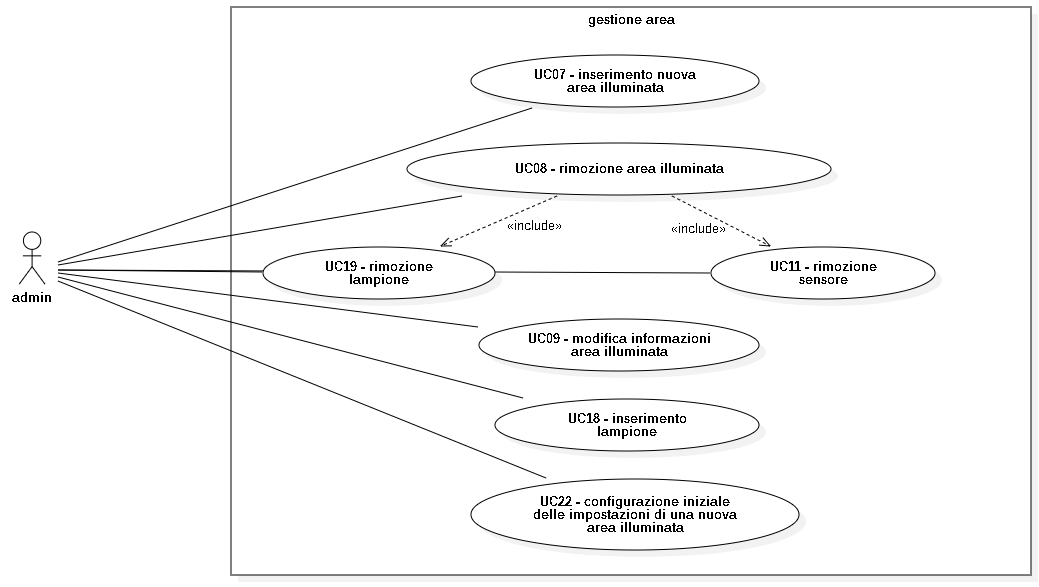
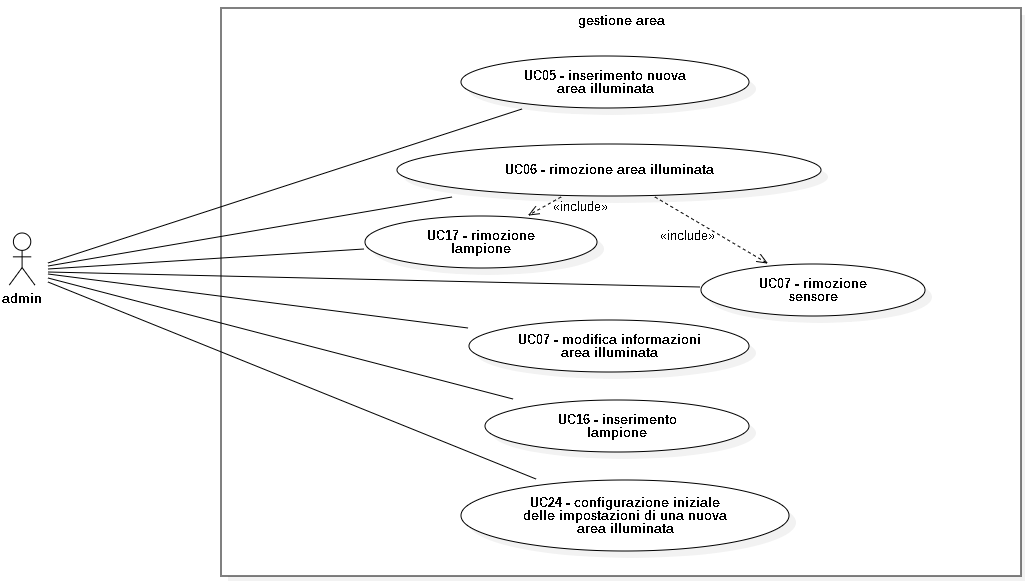
aggiornato analisi dei requisiti con relativi UML

diff --git a/analisi_requisiti/analisi_requisiti_v1.0.0.tex b/analisi_requisiti/analisi_requisiti_v1.0.0.tex
@@ -227,43 +227,7 @@ L'utente autorizzato desidera avere una panoramica sullo stato del sistema.
 
 \includegraphics[scale=0.5]{UC02.png}
 
-\subsection{Use Case 3 - Aumento luminosità automatico}
-\textbf{Tipologia: obbligatorio}\\
-Uno o più sensori rilevano la presenza di utenti della strada e comandano l'aumento della luminosità.
-\begin{itemize}
-	\item Attori primario: sensore/i
-	\item Precondizioni: uno o più sensori rilevano la presenza di pedoni o veicoli all'interno del loro raggio d'azione.
-	\item Postcondizioni: la webapp riceve la segnalazione dei sensori e comanda tutti i lampioni della zona affinchè la luminosità dell'area venga incrementata.
-\end{itemize}
-\paragraph{Scenario Principale}
-\begin{itemize}
-	\item uno o più sensori rilevano la presenza di utenti stradali
-	\item i sensori inviano un segnale alla webapp
-	\item la webapp riceve il segnale
-	\item vengono reperiti tutti gli indirizzi ip dei lampioni interessati
-	\item la webapp incrementa la luminosità di tutti i lampioni della zona
-\end{itemize}
-
-\includegraphics[scale=0.5]{UC03.png}
-
-\subsection{Use Case 4 - Diminuzione luminosità automatica}
-\textbf{Tipologia: obbligatorio}\\
-Uno o più sensori non rilevano più la presenza di utenti della strada e il sistema diminuisce automaticamente la luminosità, portandola alla soglia prefissata.
-\begin{itemize}
-	\item Attori primario: Webapp
-	\item Precondizioni: uno o più sensori non rilevano la presenza di pedoni o veicoli all'interno del loro raggio d'azione.
-	\item Postcondizioni: la webapp comanda i lampioni e la luminosità dell'area viene ripristinata al valore di default.
-\end{itemize}
-\paragraph{Scenario Principale}
-\begin{itemize}
-	\item dopo aver aumentato la luminosità a causa di un rilevamento, parte il countdown prefissato per la riduzione della luminosità
-	\item se i sensori non rilevando più presenze, non interrompono il countdown
-	\item se il countdown arriva a zero senza interruzioni, la webapp comanda la diminuzione della luminosità di tutti i lampioni della zona.
-\end{itemize}
-
-\includegraphics[scale=0.5]{UC04.png}
-
-\subsection{Use Case 5 - Aumento luminosità manuale}
+\subsection{Use Case 3 - Aumento luminosità manuale}
 \textbf{Tipologia: obbligatorio} \\
 L'amministratore vuole aumentare la luminosità indipendentemente dal fatto che ci sia un rilevamento o meno.
 \begin{itemize}
@@ -281,16 +245,16 @@ L'amministratore vuole aumentare la luminosità indipendentemente dal fatto che 
 \paragraph{Estensioni} In caso di guasto di sistema o mancanza di rete, l'amministratore comanda l'aumento della luminosità ma non vi è un incremento effettivo dopo aver fatto trascorrere il tempo tecnico prefissato.\\
 Al termine di questo lasso di tempo, se non vi è un cambiamento nella luminosità del sistema, la zona viene inserita dall'amministratore nell'elenco dei guasti. 
 
-\subsubsection{Use Case 5.1 - Visualizzazione del messaggio d'errore}
+\subsubsection{Use Case 3.1 - Visualizzazione del messaggio d'errore}
 \begin{itemize}
 	\item Attore primario: SuperAdmin, Admin
 	\item Precondizioni: L'attore primario ha tentato di aumentare la luminosità di una o più zone senza successo
 	\item Post-condizioni: L'attore primario visualizza un messaggio recante un messaggio di errore
 \end{itemize}
 
-\includegraphics[scale=0.5]{UC05.png}
+\includegraphics[scale=0.5]{UC03.png}
 
-\subsection{Use Case 6 - Diminuzione luminosità manuale}
+\subsection{Use Case 4 - Diminuzione luminosità manuale}
 \textbf{Tipologia: obbligatorio} \\
 L'amministratore vuole diminuire la luminosità indipendentemente che ci siano rilevamenti di utenti stradali o meno.
 \begin{itemize}
@@ -308,9 +272,9 @@ L'amministratore vuole diminuire la luminosità indipendentemente che ci siano r
 \paragraph{Estensioni} Nel caso in cui si comandi una dimunuzione della luminosità in modalità manuale, ma il sensore non rileva un decremento effettivo della luminosità dopo aver fatto trascorrere il "tempo tecnico", si visualizza un messaggio di errore.
 Al termine del tempo prefissato, se non ci sono stati cambiamenti di luminosità, il sistema può essere inserito nell'elenco dei guasti dall'amministratore.
 
-\includegraphics[scale=0.5]{UC06.png}
+\includegraphics[scale=0.5]{UC04.png}
 
-\subsection{Use Case 7 - Inserimento nuova area illuminata}
+\subsection{Use Case 5 - Inserimento nuova area illuminata}
 \textbf{Tipologia: obbligatorio} \\
 L'amministratore vuole inserire a sistema una nuova area da gestire che potrà essere dotata di sensori e lampioni in un secondo momento.\\
 Se sono presenti dispositivi comandabili, si vuole poter eseguire le operazioni consentite dal sistema.
@@ -327,9 +291,9 @@ Se sono presenti dispositivi comandabili, si vuole poter eseguire le operazioni 
 	\item la zona inserita viene salvata sul database per la ridondanza
 \end{itemize}
 
-\includegraphics[scale=0.5]{UC07.png}
+\includegraphics[scale=0.5]{UC05.png}
 
-\subsection{Use Case 8 - Rimozione area illuminata}
+\subsection{Use Case 6 - Rimozione area illuminata}
 \textbf{Tipologia: obbligatorio} \\
 L'amministratore vuole rimuovere una zona illuminata in quanto non viene più gestita dal sistema.
 \begin{itemize}
@@ -345,9 +309,9 @@ L'amministratore vuole rimuovere una zona illuminata in quanto non viene più ge
 	\item i lampioni e i sensori afferenti a tale area vengono eliminati a cascata dal database
 \end{itemize}
 
-\includegraphics[scale=0.5]{UC08.png}
+\includegraphics[scale=0.5]{UC06.png}
 
-\subsection{Use Case 9 - Modifica informazioni area illuminata}
+\subsection{Use Case 7 - Modifica informazioni area illuminata}
 \textbf{Tipologia: obbligatorio} \\
 L'utente vuole modificare le informazioni di una zona illuminata, come ad esempio l'indirizzo ip di un sensore che è stato sostituito.
 \begin{itemize}
@@ -371,16 +335,16 @@ L'utente vuole modificare le informazioni di una zona illuminata, come ad esempi
 \end{itemize}
 \paragraph{Estensioni} In caso di un errore nell'inserimento dei parametri nuovi, l'amministratore riceve un messaggio di errore.
 
-\subsubsection{Use Case 9.1 - Visualizzazione del messaggio d'errore in modalità di modifica}
+\subsubsection{Use Case 7.1 - Visualizzazione del messaggio d'errore in modalità di modifica}
 \begin{itemize}
 	\item Attore primario: SuperAdmin, Admin
 	\item Precondizioni: L'attore primario ha modificato uno o più dettagli di una zona illuminata
 	\item Post-condizioni: I dettagli non vengono modificati e l'utente visualizza un messaggio recante un messaggio di errore.
 \end{itemize}
 
-\includegraphics[scale=0.5]{UC09.png}
+\includegraphics[scale=0.5]{UC07.png}
 
-\subsection{Use Case 10 - Inserimento nuovo sensore}
+\subsection{Use Case 8 - Inserimento nuovo sensore}
 \textbf{Tipologia: obbligatorio}\\
 L'amministratore vuole inserire un nuovo sensore che comanda l'aumento o la riduzione della luminosità di una zona gestita.
 \begin{itemize}
@@ -408,9 +372,9 @@ L'amministratore vuole inserire un nuovo sensore che comanda l'aumento o la ridu
 \end{itemize}
 \paragraph{Estensioni} In caso di un errore nell'inserimento dei parametri nuovi,come ad esempio l'indirizzo ip del sensore,  l'amministratore riceve un messaggio di errore a seguito del fallimento del test di comunicazione.
 
-\includegraphics[scale=0.5]{UC10.png}
+\includegraphics[scale=0.5]{UC08.png}
 
-\subsection{Use Case 11 - Rimozione sensore}
+\subsection{Use Case 9 - Rimozione sensore}
 \textbf{Tipologia: obbligatorio}\\
 L'amministratore vuole rimuovere un sensore che comanda l'aumento o la riduzione della luminosità di una zona gestita.
 \begin{itemize}
@@ -429,7 +393,7 @@ L'amministratore vuole rimuovere un sensore che comanda l'aumento o la riduzione
 \end{itemize}
 
 
-\subsection{Use Case 12 - Logout dal sistema}
+\subsection{Use Case 10 - Logout dal sistema}
 \textbf{Tipologia: obbligatorio} \\
 L'utente è riconosciuto come amministratore e vuole effettuare il logout dal sistema.
 \begin{itemize}
@@ -445,7 +409,7 @@ L'utente è riconosciuto come amministratore e vuole effettuare il logout dal si
 \end{itemize}
 
 
-\subsection{Use Case 13 - Visualizzazione elenco aree illuminate}
+\subsection{Use Case 11 - Visualizzazione elenco aree illuminate}
 \textbf{Tipologia: obbligatorio} \\
 L'utente autorizzato vuole avere una panoramica delle aree illuminate
 \begin{itemize}
@@ -461,7 +425,7 @@ L'utente autorizzato vuole avere una panoramica delle aree illuminate
 \end{itemize}
 
 
-\subsection{Use Case 14 - Inserimento di un impianto nella sezione guasti}
+\subsection{Use Case 12 - Inserimento di un impianto nella sezione guasti}
 \textbf{Tipologia: obbligatorio} \\
 L'amministratore rileva un guasto e inserisce manualmente l'impianto nell'elenco dei sistemi con guasti.
 \begin{itemize}
@@ -478,9 +442,9 @@ L'amministratore rileva un guasto e inserisce manualmente l'impianto nell'elenco
 	\item viene aggiornata la tabella dei guasti nel database
 \end{itemize}
 
-\includegraphics[scale=0.5]{UC14.png}
+\includegraphics[scale=0.5]{UC12.png}
 
-\subsection{Use Case 15 - Rimozione di un impianto dalla sezione guasti}
+\subsection{Use Case 13 - Rimozione di un impianto dalla sezione guasti}
 \textbf{Tipologia: obbligatorio} \\
 L'impianto è marcato come guasto, ma il malfunzionamento è stato risolto dai manutentori.
 \begin{itemize}
@@ -498,7 +462,7 @@ L'impianto è marcato come guasto, ma il malfunzionamento è stato risolto dai m
 \end{itemize}
 
 
-\subsection{Use Case 16 - Visualizzazione dettagliata di una zona}
+\subsection{Use Case 14 - Visualizzazione dettagliata di una zona}
 \textbf{Tipologia: obbligatorio} \\
 L'amministratore vuole conoscere in dettaglio le impostazioni di una zona.
 \begin{itemize}
@@ -514,9 +478,9 @@ L'amministratore vuole conoscere in dettaglio le impostazioni di una zona.
 	\item la webapp mostra lo stato della zona, la luminosità preimpostata
 \end{itemize}
 
-\includegraphics[scale=0.5]{UC16.png}
+\includegraphics[scale=0.5]{UC14.png}
 
-\subsection{Use Case 17 - Visualizzazione dettagliata di un lampione}
+\subsection{Use Case 15 - Visualizzazione dettagliata di un lampione}
 \textbf{Tipologia: obbligatorio} \\
 L'amministratore vuole conoscere in dettaglio la luminosità di un lampione.
 \begin{itemize}
@@ -535,9 +499,9 @@ L'amministratore vuole conoscere in dettaglio la luminosità di un lampione.
 	\item la webapp mostra le informazioni
 \end{itemize}
 
-\includegraphics[scale=0.5]{UC17.png}
+\includegraphics[scale=0.5]{UC15.png}
 
-\subsection{Use Case 18 - Inserimento di un lampione}
+\subsection{Use Case 16 - Inserimento di un lampione}
 \textbf{Tipologia: obbligatorio}\\
 L'amministratore vuole inserire un nuovo lampione all'interno di un'area gestita.
 \begin{itemize}
@@ -563,7 +527,7 @@ L'amministratore vuole inserire un nuovo lampione all'interno di un'area gestita
 \end{itemize}
 
 
-\subsection{Use Case 19 - Rimozione lampione}
+\subsection{Use Case 17 - Rimozione lampione}
 \textbf{Tipologia: obbligatorio}\\
 L'amministratore vuole rimuovere un lampione all'interno dell'area gestita.
 \begin{itemize}
@@ -582,7 +546,7 @@ L'amministratore vuole rimuovere un lampione all'interno dell'area gestita.
 \end{itemize}
 
 
-\subsection{Use Case 20 - Consultazione elenco zone con guasti}
+\subsection{Use Case 18 - Consultazione elenco zone con guasti}
 \textbf{Tipologia: obbligatorio}\\
 Il manutentore vuole consultare la lista delle zone con dei malfunzionamenti per sapere dove intervenire.
 \begin{itemize}
@@ -598,7 +562,7 @@ Il manutentore vuole consultare la lista delle zone con dei malfunzionamenti per
 \end{itemize}
 
 
-\subsection{Use Case 21 - Apertura ticket}
+\subsection{Use Case 19 - Apertura ticket}
 \textbf{Tipologia: obbligatorio}\\
 L'amministratore apre un ticket per un guasto rilevato
 \begin{itemize}
@@ -614,9 +578,8 @@ L'amministratore apre un ticket per un guasto rilevato
 	\item il ticket è visualizzabile dal manutentore
 \end{itemize}
 
-\includegraphics[scale=0.5]{UC21.png}
 
-\subsection{Use Case 22 - Chiusura ticket}
+\subsection{Use Case 20 - Chiusura ticket}
 \textbf{Tipologia: obbligatorio}\\
 L'amministratore chiude un ticket del un guasto sistemato
 \begin{itemize}
@@ -632,9 +595,8 @@ L'amministratore chiude un ticket del un guasto sistemato
 	\item il titcket viene archiviato
 \end{itemize}
 
-\includegraphics[scale=0.5]{UC22.png}
 
-\subsection{Use Case 23 - Visualizzazione lista ticket}
+\subsection{Use Case 21 - Visualizzazione lista ticket}
 \textbf{Tipologia: obbligatorio}\\
 Il manutentore vuole consultare i dettagli di un guasto
 \begin{itemize}
@@ -653,7 +615,7 @@ Il manutentore vuole consultare i dettagli di un guasto
 
 \section{UC Desiderabili}
 
-\subsection{Use Case 24 - Primo accesso al sistema senza credenziali}
+\subsection{Use Case 22 - Primo accesso al sistema senza credenziali}
 \textbf{Tipologia: desiderabile.} \\
 L'utente vuole poter operare come amministratore ma non ha ancora ottenuto le credenziali necessarie all'accesso.
 \begin{itemize}
@@ -671,7 +633,7 @@ L'utente vuole poter operare come amministratore ma non ha ancora ottenuto le cr
 \end{itemize}
 
 
-\subsection{Use Case 25 - Consultazione manuale Lumos Minima}
+\subsection{Use Case 23 - Consultazione manuale Lumos Minima}
 \textbf{Tipologia: desiderabile}\\
 L'utente non sa come funziona il sistema o come eseguire un'operazione specifica e vuole approfondire questi aspetti.
 \begin{itemize}
@@ -687,7 +649,7 @@ L'utente non sa come funziona il sistema o come eseguire un'operazione specifica
 \end{itemize}
 
 
-\subsection{Use Case 26 - Configurazione iniziale delle impostazioni di una nuova zona illuminata}
+\subsection{Use Case 24 - Configurazione iniziale delle impostazioni di una nuova zona illuminata}
 \textbf{Tipologia: desiderabile} \\
 Per ogni zona illuminata inserita a sistema vengono fornite delle impostazioni di default che permettono il corretto funzionamento del sistema senza intraprendere azioni aggiuntive.
 \begin{itemize}
@@ -715,32 +677,30 @@ Per ogni zona illuminata inserita a sistema vengono fornite delle impostazioni d
 \endfoot
 RF1 & L'utente deve poter fare il login al sistema  & Obbligatorio & Capitolato Use Case 1 \\
 RF2 & L'utente visualizza lo stato del sistema & Obbligatorio & Capitolato Use Case 2 \\
-RF3 & Implementare l'aumento della luminosità automatico al rivelamento di una presenza & Obbligatorio & Capitolato Use Case 3 \\
-RF4 & Implementare la diminuzione della luminosità automatico quando non vengono più rilevate persone & Obbligatorio & Capitolato Use Case 4\\
-RF5 & L'utente deve poter aumentare la luminosità& Obbligatorio & Capitolato Use Case 5 \\
-RF5.1 & Viene visualizzato un messaggio d'errore se non si è potuto aumentare la luminosità & Obbligatorio & Use Case 5.1 \\
-RF6 & L'utente deve poter diminuire la luminosità & Obbligatorio & Use Case 6\\
-RF7 & L'utente deve poter inserire una nuova area illuminata & Obbligatorio & Use Case 7 \\
-RF8 & L'utente deve poter rimuovere una nuova area illuminata & Obbligatorio & Use Case 8\\
-RF9 & L'utente deve poter modificare le informazioni di una zona illuminata & Obbligatorio & Use Case 9 \\
-RF9.1 & Viene visualizzato un messaggio d'errore se non si è potuta effetuare la modifica & Obbligatorio & Use Case 9.1\\
-RF10 & L'utente deve poter inserire un nuovo sensore in una zona illuminata & Obbligatorio & Capitolato Use Case 10 \\
-RF11 & L'utente deve poter rimuovere un sensore da una zona illuminata & Obbligatorio & Use Case 11 \\
-RF12 & L'utente deve poter fare il logout dal sistema & Obbligatorio & Capitolato Use Case 12 \\
-RF13 & L'utente visualizza l'elenco delle aree illuminate& Obbligatorio & Use Case 13 \\
-RF14 & L'utente deve poter inserire un impianto nell'elenco dei guasti& Obbligatorio & Use Case 14 \\
-RF15 & L'utente deve poter rimuovere un impianto dall'elenco dei guasti& Obbligatorio & Use Case 15 \\
-RF16 & L'utente visualizza i dettagli di una zona& Obbligatorio & Use Case 16 \\
-RF17 & L'utente visualizza i dettagli di un lampione& Obbligatorio & Use Case 17 \\
-RF18 & L'utente deve poter inserire un nuovo lampione all'interno di un area illuminata& Obbligatorio & Use Case 18 \\
-RF19 & L'utente deve poter rimuovere un lampione all'interno di un area illuminata& Obbligatorio & Use Case 19 \\
-RF20 & L'utente visualizza l'elenco delle aree illuminate con dei malfunzionamenti& Obbligatorio & Use Case 20 \\
-RF21 & L'amministratore apre una nuova segnalazione di un guasto tramite un ticket & Obbligatorio & Use Case 21\\
-RF22 & L'amministratore chiude il ticket dopo aver fatto la dovuta manutenzione & Obbligatorio & Use Case 22\\
-RF23 & Il manutentore visualizza i dettagli aggiuntivi di un guasto forniti dal ticket & Obbligatorio & Use Case 23\\
-RF24 & L'utente non amministratore riceve le credenziali da amministratore da un superamministratore& Desiderabile & Use Case 24 \\
-RF25 & L'utente consulta il manuale Lumos Minima & Desiderabile & Use Case 25\\
-RF26 & Le nuove zone illuminate appena inserite hanno un setup standard& Desiderabile& Use Case 26\\
+RF3 & L'utente deve poter aumentare la luminosità& Obbligatorio & Capitolato Use Case 3 \\
+RF3.1 & Viene visualizzato un messaggio d'errore se non si è potuto aumentare la luminosità & Obbligatorio & Use Case 3.1 \\
+RF4 & L'utente deve poter diminuire la luminosità & Obbligatorio & Use Case 4\\
+RF5 & L'utente deve poter inserire una nuova area illuminata & Obbligatorio & Use Case 5 \\
+RF6 & L'utente deve poter rimuovere una nuova area illuminata & Obbligatorio & Use Case 6\\
+RF7 & L'utente deve poter modificare le informazioni di una zona illuminata & Obbligatorio & Use Case 7 \\
+RF7.1 & Viene visualizzato un messaggio d'errore se non si è potuta effetuare la modifica & Obbligatorio & Use Case 7.1\\
+RF8 & L'utente deve poter inserire un nuovo sensore in una zona illuminata & Obbligatorio & Capitolato Use Case 8 \\
+RF9 & L'utente deve poter rimuovere un sensore da una zona illuminata & Obbligatorio & Use Case 9 \\
+RF10 & L'utente deve poter fare il logout dal sistema & Obbligatorio & Capitolato Use Case 10 \\
+RF11 & L'utente visualizza l'elenco delle aree illuminate& Obbligatorio & Use Case 11 \\
+RF12 & L'utente deve poter inserire un impianto nell'elenco dei guasti& Obbligatorio & Use Case 12 \\
+RF13 & L'utente deve poter rimuovere un impianto dall'elenco dei guasti& Obbligatorio & Use Case 13 \\
+RF14 & L'utente visualizza i dettagli di una zona& Obbligatorio & Use Case 14 \\
+RF15 & L'utente visualizza i dettagli di un lampione& Obbligatorio & Use Case 15 \\
+RF16 & L'utente deve poter inserire un nuovo lampione all'interno di un area illuminata& Obbligatorio & Use Case 16 \\
+RF17 & L'utente deve poter rimuovere un lampione all'interno di un area illuminata& Obbligatorio & Use Case 17 \\
+RF18 & L'utente visualizza l'elenco delle aree illuminate con dei malfunzionamenti& Obbligatorio & Use Case 18 \\
+RF19 & L'amministratore apre una nuova segnalazione di un guasto tramite un ticket & Obbligatorio & Use Case 19\\
+RF20 & L'amministratore chiude il ticket dopo aver fatto la dovuta manutenzione & Obbligatorio & Use Case 20\\
+RF21 & Il manutentore visualizza i dettagli aggiuntivi di un guasto forniti dal ticket & Obbligatorio & Use Case 21\\
+RF22 & L'utente non amministratore riceve le credenziali da amministratore da un superamministratore& Desiderabile & Use Case 22 \\
+RF23 & L'utente consulta il manuale Lumos Minima & Desiderabile & Use Case 23\\
+RF24 & Le nuove zone illuminate appena inserite hanno un setup standard& Desiderabile& Use Case 24\\
 \hline
 \end{longtable}
 \subsection{Qualità}
@@ -759,4 +719,5 @@ RQ5 & Fornire un’analisi rispetto al carico massimo supportato in numero di di
 \subsection{Sistemi Operativi}
 Siccome il prodotto da sviluppare è una webapp da eseguire su browser non è stato individuato nessun requisito sui sistemi operativi.
 \subsection{Prestazionali}
+L'azienda richiede che la webApp impegni al massimo 1GB di RAM e 2 CPU.
 \end{document}
